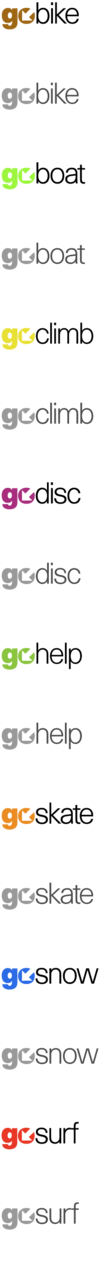
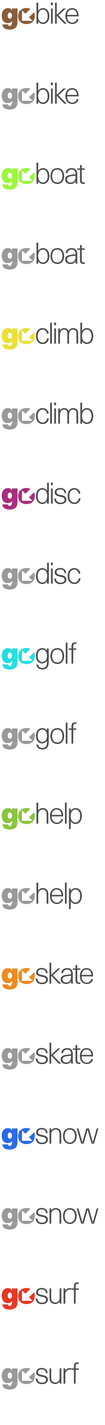
added padding in main content, new sprite, etc

Changed region(s): [[0.0, 0.0, 0.9429, 0.9866], [0.0, 0.9557, 0.6571, 0.9866]]

diff --git a/css/gozulla.css b/css/gozulla.css
@@ -74,7 +74,6 @@
     border-top: none;
   }
 
-
  /* *****  sport icons  ****** */
  #go-sports { position: relative; }
  #go-sports li { margin: 0; padding: 0; list-style: none; top:0; }
@@ -114,6 +113,7 @@
  #go-surf a:hover { background: url('../images/sport-icons.png') 0 -1725px; }
 
 
+
  /* *****  sport icons sm ****** */
  #go-sports-sm { position: relative; width: 100%; }
  #go-sports-sm li { margin: 0 0 34px 2.5em; padding: 0; list-style: none; top: 0; }
@@ -124,57 +124,42 @@
  #go-sports-sm li.last { margin-bottom: 0; }
 
  #go-bike-sm { left: 0px; width: 105px; }
- #go-bike-sm { background:url('../images/sport-icons-sm.png') 0 -80px; }
- #go-bike-sm a:hover { background: url('../images/sport-icons-sm.png') 0 0; }
+ #go-bike-sm { background:url('../images/sport-icons-sm.png') 0 0px; }
+ #go-bike-sm a:hover { background: url('../images/sport-icons-sm.png') 0 -80px; }
 
  #go-boat-sm { left: 0px; width: 105px; }
- #go-boat-sm { background:url('../images/sport-icons-sm.png') 0 -240px; }
- #go-boat-sm a:hover { background: url('../images/sport-icons-sm.png') 0 -160px; }
+ #go-boat-sm { background:url('../images/sport-icons-sm.png') 0 -160px; }
+ #go-boat-sm a:hover { background: url('../images/sport-icons-sm.png') 0 -240px; }
 
  #go-climb-sm { left: 0px; width: 105px; }
- #go-climb-sm { background:url('../images/sport-icons-sm.png') 0 -400px; }
- #go-climb-sm a:hover { background: url('../images/sport-icons-sm.png') 0 -320px; }
+ #go-climb-sm { background:url('../images/sport-icons-sm.png') 0 -320px; }
+ #go-climb-sm a:hover { background: url('../images/sport-icons-sm.png') 0 -400px; }
 
  #go-disc-sm { left: 0px; width: 105px; }
- #go-disc-sm { background:url('../images/sport-icons-sm.png') 0 -560px; }
- #go-disc-sm a:hover { background: url('../images/sport-icons-sm.png') 0 -480px; }
+ #go-disc-sm { background:url('../images/sport-icons-sm.png') 0 -480px; }
+ #go-disc-sm a:hover { background: url('../images/sport-icons-sm.png') 0 -560px; }
+ 
+ #go-golf-sm { left: 0px; width: 105px; }
+ #go-golf-sm { background:url('../images/sport-icons-sm.png') 0 -640px; }
+ #go-golf-sm a:hover { background: url('../images/sport-icons-sm.png') 0 -720px; }
 
  #go-help-sm { left: 0px; width: 105px; }
- #go-help-sm { background:url('../images/sport-icons-sm.png') 0 -720px; }
- #go-help-sm a:hover { background: url('../images/sport-icons-sm.png') 0 -640px; }
+ #go-help-sm { background:url('../images/sport-icons-sm.png') 0 -800px; }
+ #go-help-sm a:hover { background: url('../images/sport-icons-sm.png') 0 -880px; }
 
  #go-skate-sm { left: 0px; width: 105px; }
- #go-skate-sm { background:url('../images/sport-icons-sm.png') 0 -880px; }
- #go-skate-sm a:hover { background: url('../images/sport-icons-sm.png') 0 -800px; }
+ #go-skate-sm { background:url('../images/sport-icons-sm.png') 0 -960px; }
+ #go-skate-sm a:hover { background: url('../images/sport-icons-sm.png') 0 -1040px; }
 
  #go-snow-sm { left: 0px; width: 105px; }
- #go-snow-sm { background:url('../images/sport-icons-sm.png') 0 -1040px; }
- #go-snow-sm a:hover { background: url('../images/sport-icons-sm.png') 0 -960px; }
+ #go-snow-sm { background:url('../images/sport-icons-sm.png') 0 -1120px; }
+ #go-snow-sm a:hover { background: url('../images/sport-icons-sm.png') 0 -1200px; }
 
  #go-surf-sm { left: 0px; width: 105px; }
- #go-surf-sm { background:url('../images/sport-icons-sm.png') 0 -1120px; }
- #go-surf-sm a:hover { background: url('../images/sport-icons-sm.png') 0 -1200px; }
+ #go-surf-sm { background:url('../images/sport-icons-sm.png') 0 -1280px; }
+ #go-surf-sm a:hover { background: url('../images/sport-icons-sm.png') 0 -1360px; }
  
- .sprite-bike{ background-position: 0 0; width: 105px; height: 30px; }  
- .sprite-bike_gs{ background-position: 0 -80px; width: 105px; height: 30px; } 
- .sprite-boat{ background-position: 0 -160px; width: 105px; height: 30px; } 
- .sprite-boat_gs{ background-position: 0 -240px; width: 105px; height: 30px; } 
- .sprite-climb{ background-position: 0 -320px; width: 105px; height: 30px; } 
- .sprite-climb_gs{ background-position: 0 -400px; width: 105px; height: 30px; } 
- .sprite-disc{ background-position: 0 -480px; width: 105px; height: 30px; } 
- .sprite-disc_gs{ background-position: 0 -560px; width: 105px; height: 30px; } 
- .sprite-golf{ background-position: 0 -640px; width: 75px; height: 31px; } 
- .sprite-golf_gs{ background-position: 0 -721px; width: 105px; height: 30px; } 
- .sprite-help{ background-position: 0 -801px; width: 105px; height: 30px; } 
- .sprite-help_gs{ background-position: 0 -881px; width: 105px; height: 30px; } 
- .sprite-skate{ background-position: 0 -961px; width: 105px; height: 30px; } 
- .sprite-skate_gs{ background-position: 0 -1041px; width: 105px; height: 30px; } 
- .sprite-snow{ background-position: 0 -1121px; width: 105px; height: 30px; } 
- .sprite-snow_gs{ background-position: 0 -1201px; width: 105px; height: 30px; } 
- .sprite-surf{ background-position: 0 -1281px; width: 105px; height: 30px; } 
- .sprite-surf_gs{ background-position: 0 -1361px; width: 105px; height: 30px; } 
- 
- 
+
 
  /* white bg for front page sidebar second */
  .block-region-sidebar-second .block-inner {
@@ -260,4 +245,10 @@
  .nav ul li a {
    line-height: 1em;
  }
+ 
+ /* padding around content */
+ #main-content {
+   padding: 1em 2em;
+ }
+ 
  

diff --git a/template.php b/template.php
@@ -12,6 +12,18 @@
  * Override or insert variables into the html templates.
  * Replace 'footheme' with your themes name, i.e. mytheme_preprocess_html()
  */
+ 
+ /**
+   *  set body class "sport-[sport]" so we can use different bg images for each sport
+ */
+ 
+  $uri_array = explode('/', request_uri());
+  $sport = $uri_array[1];
+  
+  if (!$sport) {
+    $sport = 'default';
+  }
+  
 function gozulla_preprocess_html(&$vars) {
 
   // Load the media queries styles
@@ -36,7 +48,11 @@ function gozulla_preprocess_html(&$vars) {
      $sport = 'default';
    }
    
+   
    $vars['classes_array'][] = drupal_html_class('sport-' . $sport);
+   
+    $vars['sports_array'][] = $sport;
+   
  
  /**
   * Load IE specific stylesheets
@@ -59,3 +75,14 @@ function gozulla_preprocess_html(&$vars) {
   // */
 
 }
+
+/*function gozulla_preprocess_page(&$vars) {
+  
+  $vars['current_sport'] = $sport;
+ 
+
+  // Populate the page template suggestions.
+  if ($suggestions = theme_get_suggestions(arg(), 'page')) {
+    $vars['theme_hook_suggestions'] = $suggestions;
+  }
+}*/

diff --git a/templates/page.tpl.php b/templates/page.tpl.php
@@ -28,10 +28,16 @@
 
     <div class="container clearfix">
       <header class="clearfix">
-
+      
         <div id="branding" class="clearfix<?php print $branding_classes ? ' ' . $branding_classes : ''; ?>">
           <?php if ($linked_site_logo): ?>
-            <div id="logo"><?php print $linked_site_logo; ?></div>
+           <?php 
+           // change logo based on current sport, $sport = the name of sport or default
+           //print 'the sport is: ' . $variables['current_sport'];
+            //$sport_logo = $variables['current_sport'] . 'logo.png'; 
+            //$linked_site_logo = str_replace('logo.png', $sport_logo, $linked_site_logo);
+           ?>
+          <div id="logo"><?php print $linked_site_logo; ?></div>
           <?php endif; ?>
 
           <?php if ($site_name || $site_slogan): ?>
